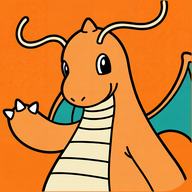
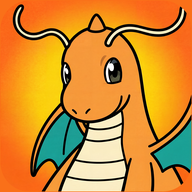
Icône du jeu : nouveau Dracolosse sur fond dégradé jaune-orange, ?v=5

diff --git a/index.html b/index.html
@@ -7,14 +7,14 @@
     <meta name="mobile-web-app-capable" content="yes" />
     <meta name="theme-color" content="#000000" />
     <!-- Ajout à l'écran d'accueil : le jeu s'ouvre en plein écran, comme une appli. -->
-    <link rel="manifest" href="/manifest.webmanifest?v=4" />
-    <link rel="apple-touch-icon" href="/apple-touch-icon.png?v=4" />
+    <link rel="manifest" href="/manifest.webmanifest?v=5" />
+    <link rel="apple-touch-icon" href="/apple-touch-icon.png?v=5" />
     <meta name="apple-mobile-web-app-status-bar-style" content="black-translucent" />
     <meta name="apple-mobile-web-app-title" content="Poképierre" />
     <title>Poképierre</title>
     <!-- Logo : Dracolosse (assets-source/icone-dracolosse.png, scripts/build_icons.py). -->
-    <link rel="icon" type="image/png" sizes="32x32" href="/favicon.png?v=4" />
-    <link rel="icon" href="/favicon.ico?v=4" sizes="any" />
+    <link rel="icon" type="image/png" sizes="32x32" href="/favicon.png?v=5" />
+    <link rel="icon" href="/favicon.ico?v=5" sizes="any" />
     <!-- Polices (Google Fonts, licence libre OFL) : Pixelify Sans (interface), Lilita One (écran titre) -->
     <link rel="preconnect" href="https://fonts.googleapis.com" />
     <link rel="preconnect" href="https://fonts.gstatic.com" crossorigin />

diff --git a/scripts/build_icons.py b/scripts/build_icons.py
@@ -1,5 +1,5 @@
 """Logo du jeu : Dracolosse sur carré orange à coins arrondis, à partir de assets-source/icone-dracolosse.png
-(4096 x 4096, le carré remplit l'image, coins blancs). Icône de l'onglet (favicon), de l'écran d'accueil (iPhone,
+(4096 x 4096, fond dégradé jaune-orange, le carré remplit l'image, coins blancs). Icône de l'onglet (favicon), de l'écran d'accueil (iPhone,
 Android) et du manifeste, vers public/.
 
 Usage : python3 scripts/build_icons.py
@@ -13,7 +13,7 @@ SRC = ROOT / 'assets-source' / 'icone-dracolosse.png'
 
 BOX = (0, 0, 4096, 4096)  # le carré à coins arrondis dans la source (le reste : coins blancs)
 RADIUS = 620                # rayon de ses coins (en px de la source)
-ORANGE = (248, 121, 22)     # couleur du fond du carré
+ORANGE = (250, 112, 25)     # couleur du fond du carré
 
 
 def mask(size, inset):
